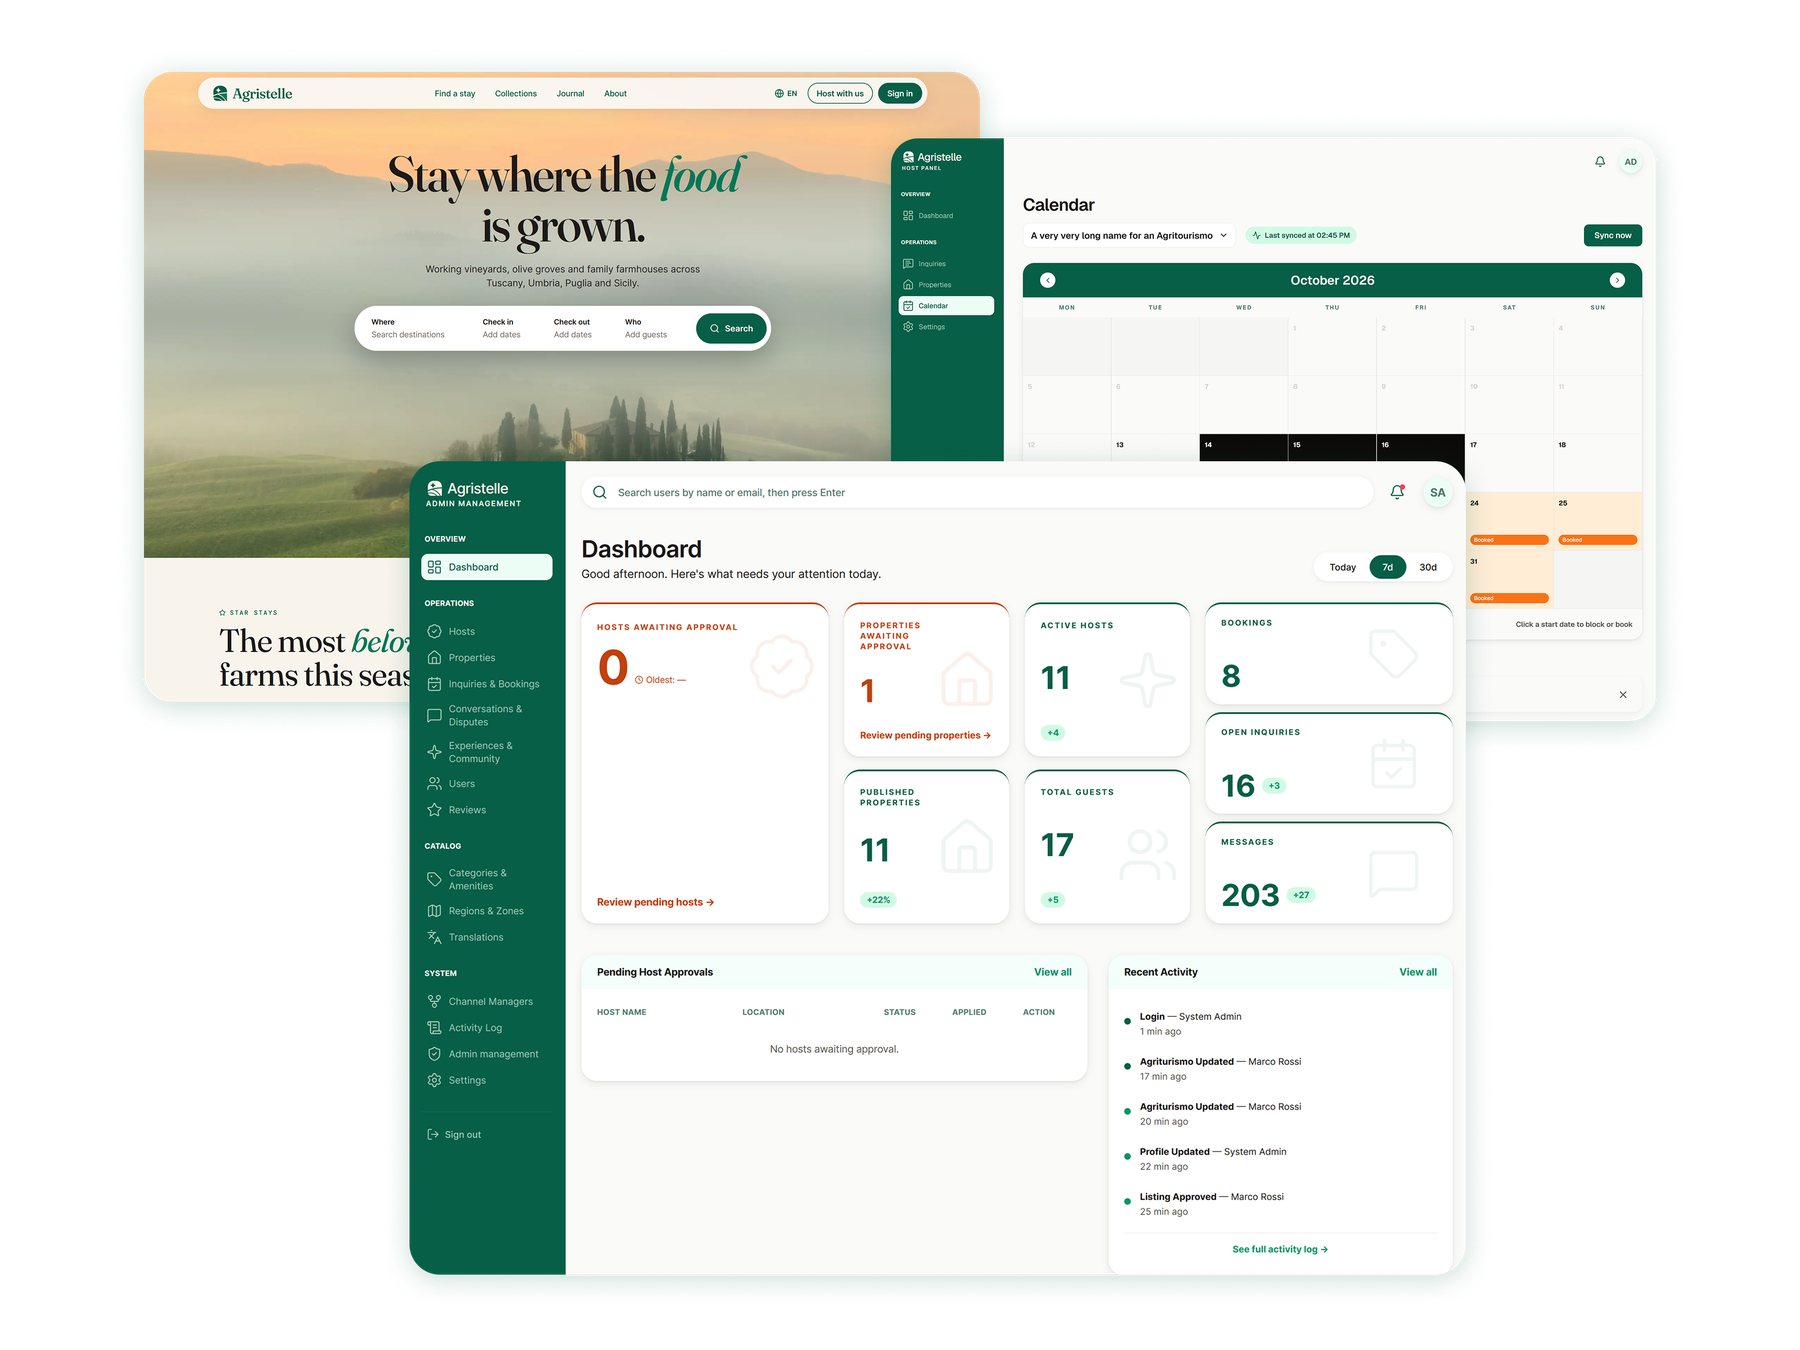
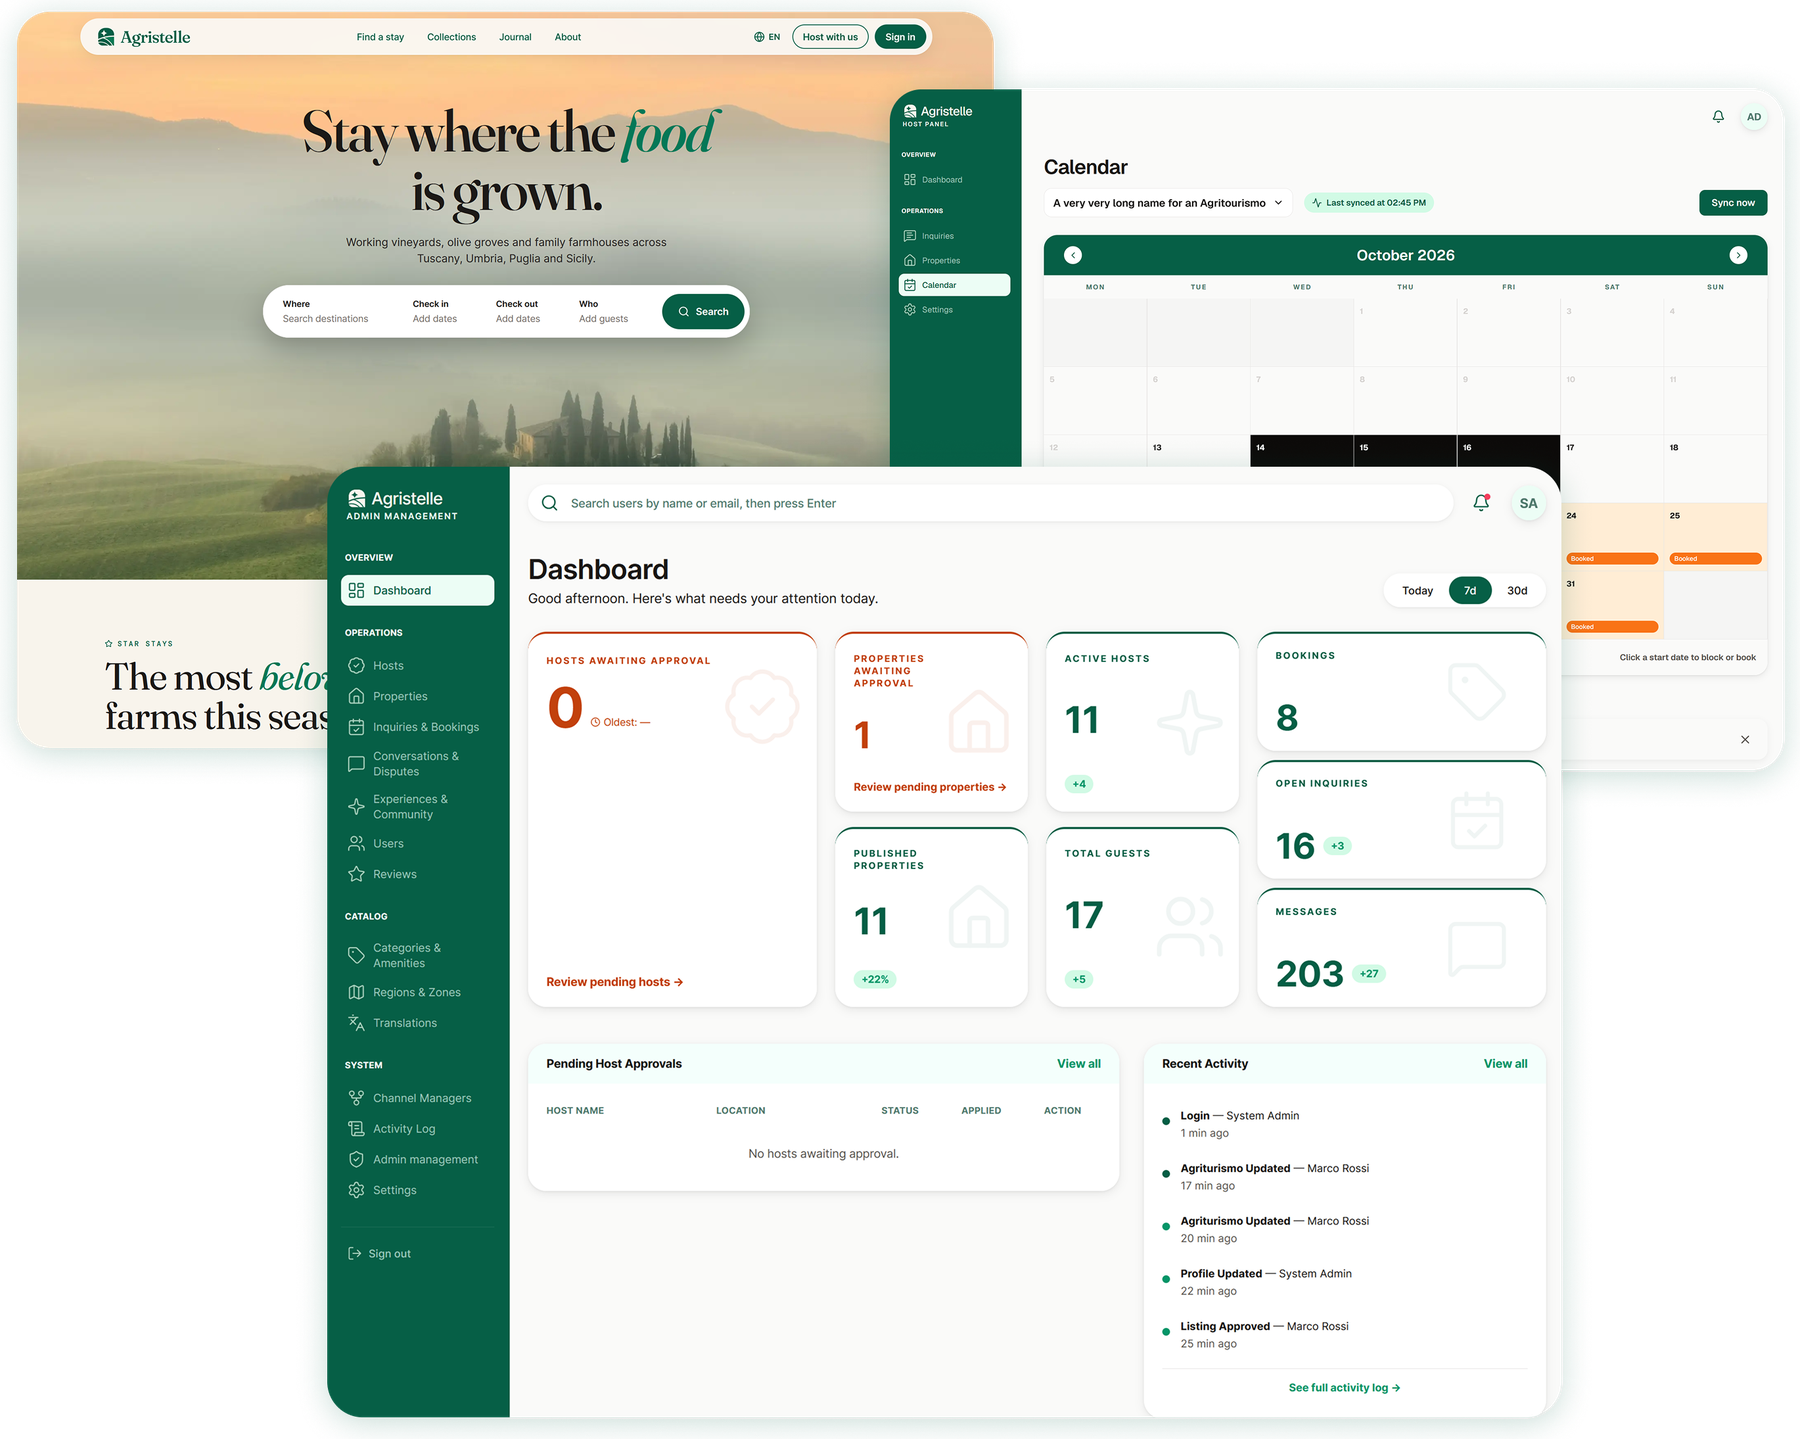
Overview: trim image margins (bigger), more space above facts
Claude-Session: https://claude.ai/code/session_01RCdCzi1Y1X19UJxNvPGew7

diff --git a/project.html b/project.html
@@ -61,7 +61,7 @@
       .pill h1 { font-size: clamp(56px, calc(var(--u) * 104), 150px); }
       .pill h2 { font-size: clamp(40px, calc(var(--u) * 54), 80px); }
       .text p { font-size: max(18px, calc(var(--u) * 18)); line-height: 1.55; margin-bottom: 14px; }
-      .facts { font-size: max(17px, calc(var(--u) * 17)); gap: 18px 40px; margin-top: 22px; }
+      .facts { font-size: max(17px, calc(var(--u) * 17)); gap: 18px 40px; margin-top: 52px; }
       .facts b { font-size: max(18px, calc(var(--u) * 18)); }
       .shot, .shot--ph { max-height: 70dvh; }
     }
@@ -83,7 +83,7 @@
       .edge--bottom .cue-d { display: none; } .edge--bottom .cue-m { display: block; }
       .chapter { padding-bottom: 64px; }
       .chapter__in { gap: 14px; } .pill { margin-bottom: 14px; }
-      .facts { display: grid; grid-template-columns: 1fr 1fr; gap: 12px 20px; margin-top: 12px; font-size: 15px; }
+      .facts { display: grid; grid-template-columns: 1fr 1fr; gap: 12px 20px; margin-top: 20px; font-size: 15px; }
       .facts b { font-size: 15px; margin-bottom: 4px; }
       .shot, .shot--ph { max-height: 30dvh; }
     }
